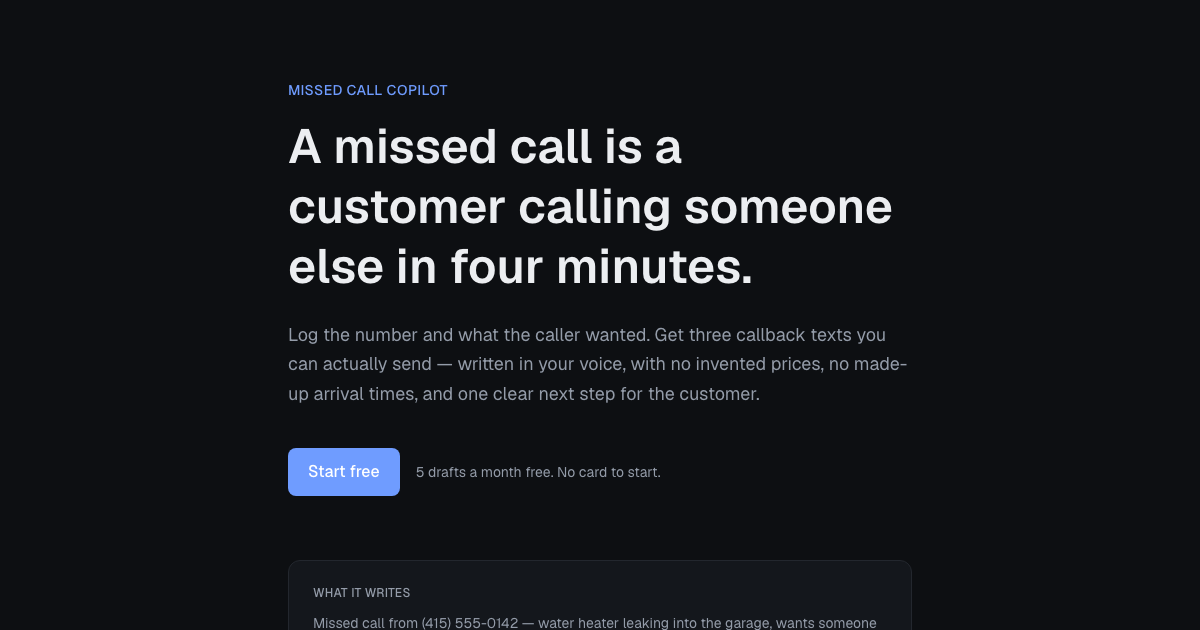
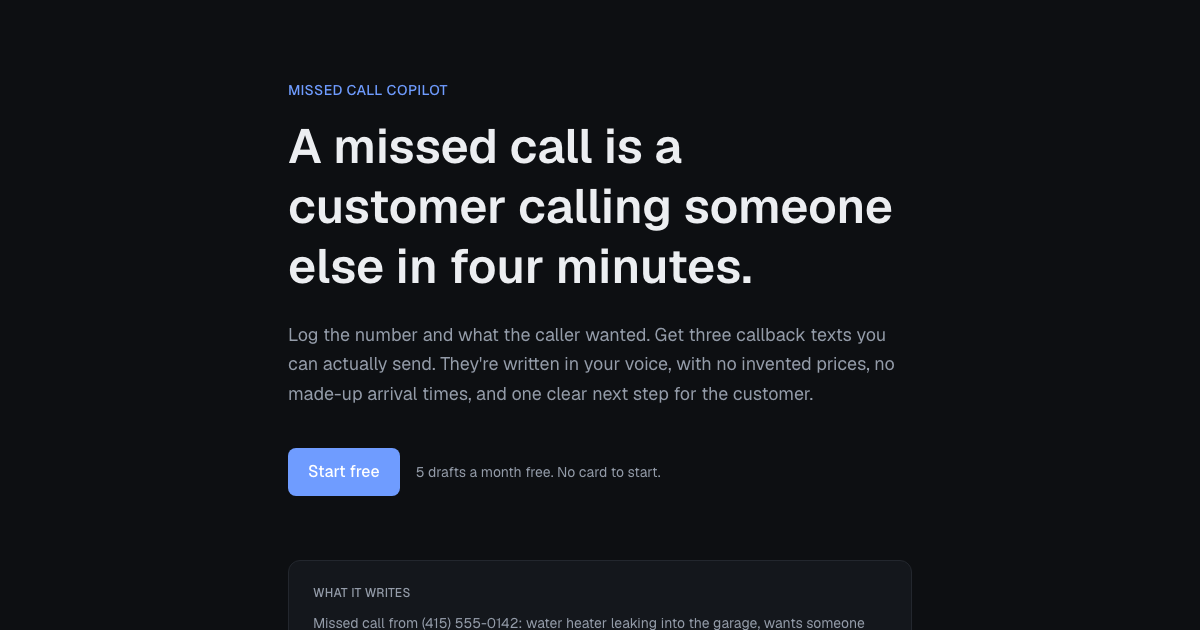
Tighten the copy and refresh the screenshots
Rewrites the punctuation-heavy sentences in the README, the landing page,
the login and dashboard hints, and the code comments so they read more
plainly. The README screenshot and the Open Graph and Twitter preview
images are retaken from the updated landing page, so link previews match
what the site actually says.

No behavior changes. next build passes.

Changed region(s): [[0.2467, 0.573, 0.7708, 0.6333], [0.4317, 0.9651, 0.74, 1.0]]

diff --git a/src/app/login/page.tsx b/src/app/login/page.tsx
@@ -6,7 +6,7 @@ import { logSupabaseConfigState } from "@/lib/supabase/config";
 
 // Always render per request. These pages branch on environment variables that
 // are resolved at runtime, so letting Next prerender them bakes in whichever
-// branch was true at BUILD time — deploy before setting env vars and the page
+// branch was true at BUILD time. Deploy before setting env vars, and the page
 // says "not configured" forever, even once the values are live. The landing
 // page stays static on purpose; it's the one that benefits from being cached.
 export const dynamic = "force-dynamic";
@@ -15,7 +15,7 @@ export default async function LoginPage({
   searchParams,
 }: PageProps<"/login">) {
   if (!isSupabaseConfigured()) {
-    // Names, never values — readable in Vercel's Runtime Logs. Turns "it says
+    // Names, never values, so it's safe in Vercel's Runtime Logs. Turns "it says
     // not configured" into "it found these three names and none of them match".
     logSupabaseConfigState("/login");
     return (
@@ -62,7 +62,7 @@ export default async function LoginPage({
     const { data, error } = await supabase.auth.signUp({ email, password });
     if (error) redirect(`/login?error=${encodeURIComponent(error.message)}`);
 
-    // With email confirmation on, there's no session yet — the user has to click
+    // With email confirmation on, there's no session yet. The user has to click
     // the link first. With it off, they're already signed in.
     if (data.session) redirect("/dashboard");
     redirect(`/login?notice=${encodeURIComponent("Check your email to confirm the account.")}`);
@@ -76,7 +76,7 @@ export default async function LoginPage({
 
       <h1 className="mt-6 text-2xl font-semibold">Sign in</h1>
       <p className="mt-2 text-sm text-muted">
-        New here? Use the same form — Create account makes one.
+        New here? Use the same form and hit Create account.
       </p>
 
       {message && (

diff --git a/src/app/page.tsx b/src/app/page.tsx
@@ -24,8 +24,8 @@ export default async function Home() {
 
       <p className="mt-6 text-lg leading-relaxed text-muted">
         Log the number and what the caller wanted. Get three callback texts you can
-        actually send — written in your voice, with no invented prices, no made-up arrival
-        times, and one clear next step for the customer.
+        actually send. They're written in your voice, with no invented prices, no made-up
+        arrival times, and one clear next step for the customer.
       </p>
 
       <div className="mt-10 flex flex-wrap items-center gap-4">
@@ -45,11 +45,11 @@ export default async function Home() {
           What it writes
         </p>
         <p className="mt-3 text-sm text-muted">
-          Missed call from (415) 555-0142 — water heater leaking into the garage, wants
+          Missed call from (415) 555-0142: water heater leaking into the garage, wants
           someone today
         </p>
         <p className="mt-4 rounded-lg bg-background p-4 font-mono text-sm leading-relaxed">
-          This is Mike at Bayview Plumbing — sorry I missed you. A leaking heater can get
+          This is Mike at Bayview Plumbing, sorry I missed you. A leaking heater can get
           worse fast, so shut the water valve on top of the tank if you can reach it. I can
           call you right back to lock in a time. Are you free in the next 20 minutes?
         </p>

diff --git a/src/lib/supabase/config.ts b/src/lib/supabase/config.ts
@@ -6,7 +6,7 @@
  * 1. Next.js inlines a static `process.env.NEXT_PUBLIC_FOO` into the compiled
  *    output at build time. Vercel's "Sensitive" environment variables are
  *    deliberately unavailable during the build, so a sensitive NEXT_PUBLIC_ var
- *    compiles to undefined and stays undefined forever — even though the value
+ *    compiles to undefined and stays undefined forever, even though the value
  *    is sitting right there at runtime.
  * 2. Hosting integrations don't agree on names. The Supabase integration has
  *    shipped SUPABASE_URL, NEXT_PUBLIC_SUPABASE_URL, and prefixed variants
@@ -15,8 +15,8 @@
  *
  * Indexing process.env with a variable (rather than a literal property access)
  * is what keeps the bundler from inlining it, so these are real runtime reads.
- * Every consumer of this module is server-side — there is no browser Supabase
- * client in this app — so runtime resolution is safe here.
+ * Every consumer of this module is server-side (there is no browser Supabase
+ * client in this app), so runtime resolution is safe here.
  */
 
 function readEnv(names: readonly string[]): string | undefined {

diff --git a/src/app/api/keepalive/route.ts b/src/app/api/keepalive/route.ts
@@ -10,7 +10,7 @@ import { supabaseAnonKey, supabaseUrl } from "@/lib/supabase/config";
  * activity, which would quietly break sign-in for anyone opening the demo link
  * a week after it was shared. Run daily by Vercel Cron (see vercel.json).
  *
- * The query has to actually reach Postgres to count — /api/health doesn't,
+ * The query has to actually reach Postgres to count. /api/health doesn't,
  * since it only reads environment variables. This runs under the anon key and
  * row level security, so it reads nothing: with no session, the policy matches
  * no rows. Executing the query is the entire point; the result is discarded.
@@ -19,7 +19,7 @@ export const dynamic = "force-dynamic";
 
 export async function GET(request: Request) {
   // Vercel Cron sends this header when CRON_SECRET is set. When it isn't set,
-  // the endpoint stays open — it exposes no data, but setting the secret stops
+  // the endpoint stays open. It exposes no data, but setting the secret stops
   // anyone else from running it.
   const secret = process.env.CRON_SECRET;
   if (secret && request.headers.get("authorization") !== `Bearer ${secret}`) {

diff --git a/src/app/api/draft/route.ts b/src/app/api/draft/route.ts
@@ -59,7 +59,7 @@ export async function POST(request: Request) {
   }
 
   // Quota is checked server side, before the model call. The client also hides
-  // the button at zero, but that's cosmetic — this is the check that counts.
+  // the button at zero, but that's cosmetic. This is the check that counts.
   const usage = await getUsage(supabase, user.id);
   if (usage.remaining !== null && usage.remaining <= 0) {
     return NextResponse.json(
@@ -77,8 +77,8 @@ export async function POST(request: Request) {
       model: "claude-opus-5",
       max_tokens: 4000,
       system: SYSTEM,
-      // Thinking stays on — it's what keeps the model from wandering outside the
-      // "never invent a price" rules — but effort drops to low. Writing three
+      // Thinking stays on, since it's what keeps the model inside the "never
+      // invent a price" rules, but effort drops to low. Writing three
       // 300-character texts doesn't need deep reasoning, and the default (high)
       // spends several cents a draft on thinking tokens nobody reads.
       thinking: { type: "adaptive" },

diff --git a/src/app/api/stripe/webhook/route.ts b/src/app/api/stripe/webhook/route.ts
@@ -6,7 +6,7 @@ import { createAdminClient } from "@/lib/supabase/admin";
 /**
  * The only route that writes another user's row, and the only one that uses the
  * service-role key. It is safe to do that here precisely because the signature
- * check below proves the request came from Stripe — an unsigned or replayed body
+ * check below proves the request came from Stripe: an unsigned or replayed body
  * is rejected before any database call.
  *
  * Excluded from proxy.ts's matcher: it carries no session cookie, and the raw
@@ -31,7 +31,7 @@ export async function POST(request: Request) {
     event = await stripe.webhooks.constructEventAsync(body, signature, secret);
   } catch (error) {
     // Bad signature. Could be a misconfigured secret, could be someone poking
-    // the endpoint — either way it never reaches the database.
+    // the endpoint. Either way it never reaches the database.
     console.error("webhook signature check failed", error);
     return NextResponse.json({ error: "Invalid signature." }, { status: 400 });
   }

diff --git a/src/app/api/health/route.ts b/src/app/api/health/route.ts
@@ -8,7 +8,7 @@ import { isSupabaseConfigured } from "@/lib/supabase/config";
  * Diagnosing "the site says it isn't configured" through a CDN is guesswork:
  * a cached page from an older build is indistinguishable from a new build that
  * genuinely can't see its credentials. This route is never cached and reports
- * which commit is serving and whether that build can resolve its config — so
+ * which commit is serving and whether that build can resolve its config, so
  * the two cases can be told apart from outside.
  *
  * Booleans and a commit SHA only. No values, no variable names.

diff --git a/src/app/dashboard/page.tsx b/src/app/dashboard/page.tsx
@@ -10,7 +10,7 @@ import UpgradeButton from "./upgrade-button";
 
 // Always render per request. These pages branch on environment variables that
 // are resolved at runtime, so letting Next prerender them bakes in whichever
-// branch was true at BUILD time — deploy before setting env vars and the page
+// branch was true at BUILD time. Deploy before setting env vars, and the page
 // says "not configured" forever, even once the values are live. The landing
 // page stays static on purpose; it's the one that benefits from being cached.
 export const dynamic = "force-dynamic";

diff --git a/src/app/dashboard/draft-form.tsx b/src/app/dashboard/draft-form.tsx
@@ -63,7 +63,7 @@ export default function DraftForm({ outOfDrafts }: { outOfDrafts: boolean }) {
           className="resize-y rounded-lg border border-border bg-background px-3 py-2.5 outline-none focus:border-accent"
         />
         <span className="text-xs text-muted">
-          A voicemail transcript, a note to yourself — whatever you actually have.
+          A voicemail transcript, a note to yourself, whatever you actually have.
         </span>
       </label>
 

diff --git a/src/proxy.ts b/src/proxy.ts
@@ -4,7 +4,7 @@ import { createServerClient } from "@supabase/ssr";
 import { supabaseAnonKey, supabaseUrl } from "@/lib/supabase/config";
 
 /**
- * Next 16 renamed Middleware to Proxy — same mechanism, new filename and export.
+ * Next 16 renamed Middleware to Proxy: same mechanism, new filename and export.
  *
  * This runs on every matched request to refresh the Supabase session cookie.
  * Without it, an expired access token never gets rotated and the user is

diff --git a/src/lib/supabase/admin.ts b/src/lib/supabase/admin.ts
@@ -4,7 +4,7 @@ import { supabaseServiceRoleKey, supabaseUrl } from "./config";
 
 /**
  * Service-role client. Bypasses RLS, so it is only ever constructed inside the
- * Stripe webhook — the one place that legitimately writes to a row on behalf of
+ * Stripe webhook, the one place that legitimately writes to a row on behalf of
  * a user who isn't the one making the request.
  *
  * Never import this into a Client Component. The key must not reach the browser.

diff --git a/src/lib/plan.ts b/src/lib/plan.ts
@@ -17,7 +17,7 @@ function startOfMonthISO(): string {
 /**
  * How many drafts this user has left this calendar month.
  *
- * Counted from the missed_calls rows themselves rather than a counter column —
+ * Counted from the missed_calls rows themselves rather than a counter column:
  * a counter can drift out of sync with reality, and at this volume the count
  * query is free. Both reads run under RLS, so they can only see their own rows.
  */
